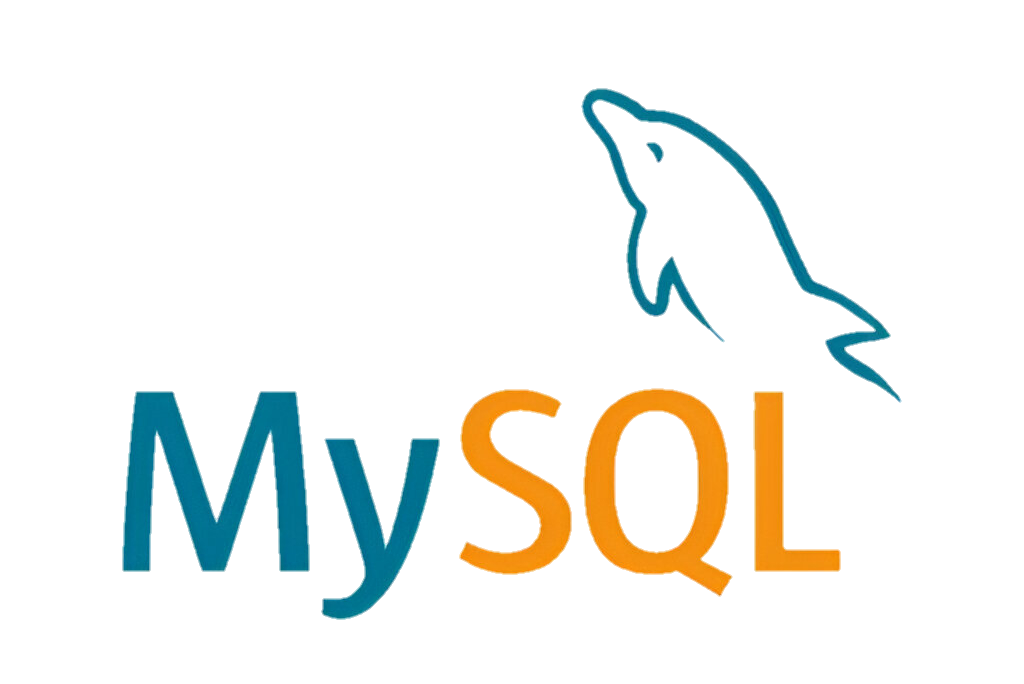
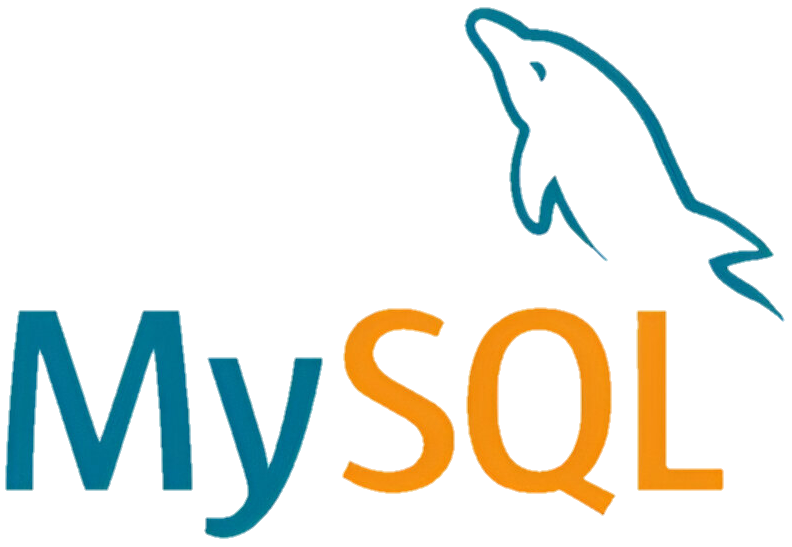
Portfolio

Changed region(s): [[0.0, 0.0, 0.9697, 0.9945], [0.9697, 0.5594, 1.0, 0.5905]]

diff --git a/index.html b/index.html
@@ -1049,7 +1049,7 @@
                 <li class="service-item">
 
                   <div class="service-icon-box">
-                    <img src="./assets/images/mysql.png" alt="web design icon" height="52" width="70">
+                    <img src="./assets/images/mysql.png" alt="web design icon" height="41" width="47">
                   </div>
 
                   <div class="service-content-box">
@@ -1066,7 +1066,7 @@
                 <li class="service-item">
 
                   <div class="service-icon-box">
-                    <img src="./assets/images/phpmyadmin.png" alt="freelance work icon" height="60" width="59">
+                    <img src="./assets/images/phpmyadmin.png" alt="freelance work icon" height="43" width="41">
                   </div>
 
                   <div class="service-content-box">
